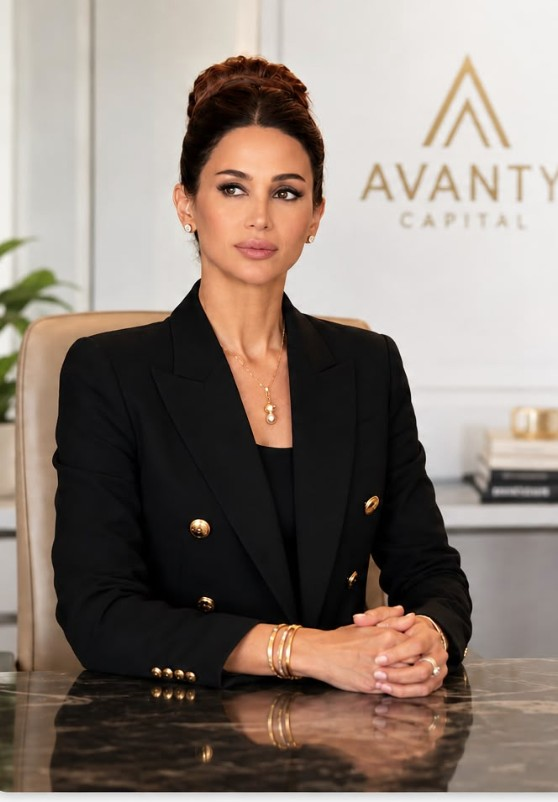
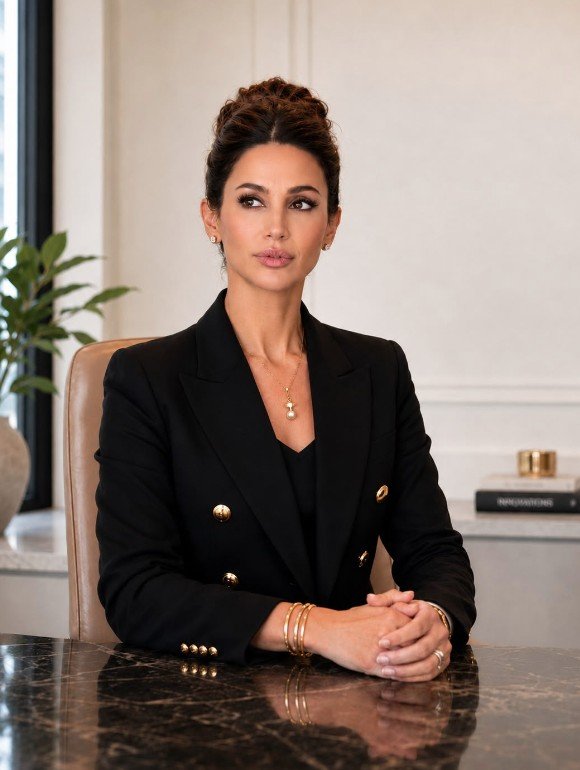
Add new edits addedgfff

diff --git a/public/assets/frontend/js/aboutus.js b/public/assets/frontend/js/aboutus.js
@@ -74,30 +74,30 @@ document.addEventListener("DOMContentLoaded", () => {
         "tanaz": {
             name: "Tanaz Choudhury",
             title: "Founder / Principal",
-            intro: "Tanaz Choudhury is Founder / Principal of AVANTY Capital. A UCL graduate in International Politics and Journalism, she began her career at HSBC as a governance and compliance analyst before moving into HSBC’s international governance and compliance team supporting the Cayman Islands business. She later established a reputable family office focused on real estate backed assets, which was exited to a Zurich-based private equity firm. At AVANTY Capital, Tanaz provides leadership across strategy, governance, institutional relationships and long-term private capital growth.",
+            intro: "Tanaz Choudhury is Founder and Principal of Avanty Capital, setting the firm's strategic direction and leading its governance, institutional relationships and long term growth. Her background spans international banking, governance and compliance, and family office leadership, shaping a firm built on discipline, alignment and long term value.",
             sections: [
-                { icon: "person", title: "EXECUTIVE OVERVIEW", content: "Tanaz Choudhury is Founder / Principal of AVANTY Capital, providing senior leadership across the firm’s corporate strategy, governance standards, investor positioning and international growth. Her background combines institutional banking discipline, governance and compliance experience, family office formation and real estate backed asset management. She brings a structured, credible and commercially balanced perspective to AVANTY Capital, helping ensure the firm is positioned as a relationship-led private capital platform with strong governance, professional presentation and long-term execution discipline." },
-                { icon: "briefcase", title: "PROFESSIONAL BIOGRAPHY", content: "Tanaz graduated from University College London (UCL) with a degree in International Politics and Journalism, providing a strong foundation in global affairs, governance, communication and international markets.<br><br>She began her career at HSBC within the Governance and Compliance function, where she developed experience in regulatory frameworks, risk management, internal controls and corporate governance. She later joined HSBC’s Offshore Governance and Compliance team, supporting the Cayman Islands business, one of the world’s leading international financial centres, where she gained valuable experience in cross-border banking, offshore financial services and international regulatory frameworks.<br><br>Following her banking career, Tanaz helped establish a private family office focused on real estate-backed and asset-backed investments, where she played an active role in governance, transaction execution, asset oversight and long-term capital strategy. The family office subsequently completed the successful sale of its real estate portfolio to a reputable Zurich-based private equity firm, providing her with direct experience in institutional due diligence, governance reviews, portfolio positioning and strategic transaction execution.<br><br>As Founder and Principal of AVANTY Capital, Tanaz provides strategic leadership across the firm’s governance, institutional relationships and long-term business development. She plays a key role in maintaining the firm’s professional standards across documentation, stakeholder engagement, strategic partnerships and external communications, ensuring AVANTY Capital operates with the professionalism, discretion and credibility expected by lenders, advisers, family offices, entrepreneurs and institutional counterparties." },
+                { icon: "person", title: "EXECUTIVE OVERVIEW", content: "Tanaz Choudhury is Founder and Principal of Avanty Capital, setting the firm's strategic direction and leading its governance, institutional relationships and long term growth. Her background spans international banking, governance and compliance, and family office leadership, shaping a firm built on discipline, alignment and long term value." },
+                { icon: "briefcase", title: "PROFESSIONAL BIOGRAPHY", content: "Tanaz read International Politics and Journalism at University College London, an academic grounding that shaped her enduring focus on global affairs, governance and international markets.<br><br>Tanaz's command of governance and compliance is grounded in her time at HSBC, where she progressed from the bank's Governance and Compliance function into a senior international role overseeing regulatory compliance, internal controls and risk across cross border banking, international regulatory frameworks and corporate governance.<br><br>Tanaz was a key visionary behind a successful private family office focused on real estate backed and asset backed investment, which she co founded and where she led governance, transaction execution, asset oversight and long term capital strategy. She directed the successful sale of the family office's real estate portfolio to a Zurich based private equity firm, an outcome that brought firsthand exposure to institutional due diligence, governance review and strategic transaction execution.<br><br>As Founder and Principal of Avanty Capital, Tanaz leads the firm's strategic direction, long term growth and international relationships, identifying opportunities across global markets and building institutional partnerships across banking, fintech and real estate.<br><br>She applies the principles of ethical finance and Sharia compliant investment throughout, working with entrepreneurs, family offices, lenders and institutional investors through disciplined governance and cross border execution." },
                 { icon: "chart", title: "CORE AREAS OF RESPONSIBILITY", content: "<ul><li>Founder / Principal leadership and strategic direction</li><li>Corporate governance, compliance culture and institutional standards</li><li>International growth, strategic partnerships and senior stakeholder relationships</li><li>Family office strategy, real estate backed asset oversight and private capital positioning</li><li>Brand credibility, reputation management and relationship-led business development</li><li>Supporting transaction presentation, documentation discipline and cross-border execution standards</li></ul>" }
             ]
         },
         "jenny": {
             name: "Jenny Won Lee",
             title: "Head of Capital Markets, Funding Strategy and Transaction Structuring",
-            intro: "Jenny Won Lee is Head of Capital Markets at AVANTY Capital, supporting the firm’s commercial pricing, capital market strategy and transaction structuring. She works closely with the leadership team on debt facilities, capital structures, lender engagement and market analysis, helping position transactions for successful execution across private capital and cross-border opportunities.",
+            intro: "Jenny Won Lee leads Avanty Capital's capital markets function, responsible for commercial pricing, capital strategy, capital provider engagement and transaction structuring. She shapes funding solutions that are commercially realistic, aligned to cost of capital and executable across complex real estate and private capital transactions.",
             sections: [
-                { icon: "person", title: "EXECUTIVE OVERVIEW", content: "Jenny Won Lee leads AVANTY Capital’s capital markets function, with responsibility for commercial pricing, capital strategy, lender engagement and transaction structuring. She supports the firm’s private capital activities by helping shape funding solutions that are commercially realistic, lender-aligned and capable of being executed across complex real estate and private capital transactions." },
-                { icon: "briefcase", title: "PROFESSIONAL BIOGRAPHY", content: "Jenny’s background is positioned around financial analysis, market assessment and private capital execution. She brings a strong analytical foundation to the firm, supported by a degree in Mathematics from the University of Seoul and experience across investment analysis, private equity markets and transaction support.<br><br>Before joining AVANTY Capital, Jenny developed experience in Hong Kong’s financial markets, including exposure to private equity, investment analysis and transaction execution. This background gave her a practical understanding of how capital providers assess risk, pricing, security, exit strategy and sponsor credibility.<br><br>At AVANTY Capital, Jenny works closely with the leadership team to review commercial pricing, capital structures, debt facilities, market comparables and funding strategy. She assists in shaping the financial narrative of each transaction so that counterparties can understand the opportunity, the security position, the repayment strategy and the commercial rationale.<br><br>Her role also includes supporting negotiations with lenders, advisers and institutional counterparties. Jenny helps translate deal information into a structured capital markets presentation, ensuring that valuation assumptions, debt sizing, projected returns and execution milestones are presented in a clear, credible and commercially disciplined manner." },
+                { icon: "person", title: "EXECUTIVE OVERVIEW", content: "Jenny Won Lee leads Avanty Capital's capital markets function, responsible for commercial pricing, capital strategy, capital provider engagement and transaction structuring. She shapes funding solutions that are commercially realistic, aligned to cost of capital and executable across complex real estate and private capital transactions." },
+                { icon: "briefcase", title: "PROFESSIONAL BIOGRAPHY", content: "Jenny graduated with distinction in Mathematics from the University of Seoul, giving her a strong analytical foundation across investment analysis, private equity markets and transaction execution.<br><br>Before joining Avanty Capital, Jenny built her career in Hong Kong's financial markets, working across private equity, investment analysis and transaction execution. This gave her a practical understanding of how capital providers assess risk, pricing, security, exit strategy and sponsor credibility.<br><br>At Avanty Capital, Jenny reviews commercial pricing, capital structures, debt facilities, market comparables and funding strategy alongside the leadership team, shaping the financial narrative of each transaction so counterparties understand the opportunity, the security position, the repayment strategy and the commercial rationale.<br><br>She leads negotiations with capital providers, advisers and institutional counterparties, translating deal information into structured capital markets presentations with clear, credible and commercially disciplined valuation assumptions, debt sizing, projected returns and execution milestones." },
                 { icon: "bank", title: "CORE AREAS OF RESPONSIBILITY", content: "<ul><li>Capital markets strategy and lender engagement</li><li>Commercial pricing, debt sizing and funding analysis</li><li>Transaction structuring and capital stack review</li><li>Market analysis, comparables and execution planning</li><li>Supporting cross-border capital solutions and lender-facing materials</li></ul>" }
             ]
         },
         "kai": {
             name: "Kai Leuw",
             title: "Head of Operations, Governance and Transaction Delivery",
-            intro: "Kai Leuw is Head of Operations at AVANTY Capital, overseeing the firm’s internal management, operational framework and transaction delivery processes. She coordinates key workstreams across advisers, lenders, borrowers and management, ensuring that complex transactions are progressed with discipline, structure and professional oversight.",
+            intro: "Kai Leuw is Head of Operations at Avanty Capital, directing internal management, operational governance and transaction delivery across the firm. She holds the firm's commercial processes, documentation and stakeholder communication to a single standard of order, consistency and long term discipline, ensuring the firm's transaction activity moves with the rigour institutional counterparties expect. As a key member of the firm's daily operations, Kai is the constant thread running through every transaction from origination to completion.",
             sections: [
-                { icon: "person", title: "EXECUTIVE OVERVIEW", content: "Kai Leuw is Head of Operations at AVANTY Capital, responsible for internal management, operational governance and the delivery framework that supports the firm’s transaction activity. Her function is to ensure that the firm’s commercial processes, documentation flows, professional advisers and stakeholder communications remain organised, consistent and aligned with the firm’s long-term objectives." },
-                { icon: "briefcase", title: "PROFESSIONAL BIOGRAPHY", content: "Kai’s background combines operational management, financial analysis and commercial coordination. She is positioned as a disciplined operator with experience supporting complex processes across financial services, corporate advisory and market-facing business environments.<br><br>Kai began her career in Singapore, developing a foundation in analytical thinking, financial reporting, process management and client engagement. Her early career gave her exposure to structured corporate environments where accuracy, communication and process discipline were central to delivery.<br><br>She subsequently developed experience across commercial operations and strategic analysis, including work connected to regional markets, portfolio oversight and transaction coordination. This experience strengthened her ability to manage competing priorities, assess commercial information and support senior decision-makers through clear operational execution.<br><br>At AVANTY Capital, Kai oversees the internal framework behind the firm’s transaction activity. This includes coordinating workstreams between management, borrowers, lenders, valuers, lawyers, monitoring surveyors and other professional advisers. She helps ensure that each transaction moves through the required stages in an orderly manner, with clear ownership, timely follow-up and accurate communication.<br><br>Kai’s role is particularly important in complex cross-border transactions where multiple parties need to be coordinated and where delays can occur if information is not managed properly. Her operational oversight supports the firm’s ability to move quickly while maintaining professionalism, governance and control." },
+                { icon: "person", title: "EXECUTIVE OVERVIEW", content: "Kai Leuw is Head of Operations at Avanty Capital, directing internal management, operational governance and transaction delivery across the firm. She holds the firm's commercial processes, documentation and stakeholder communication to a single standard of order, consistency and long term discipline, ensuring the firm's transaction activity moves with the rigour institutional counterparties expect. As a key member of the firm's daily operations, Kai is the constant thread running through every transaction from origination to completion." },
+                { icon: "briefcase", title: "PROFESSIONAL BIOGRAPHY", content: "Kai holds a Bachelor of Arts from the National University of Singapore, an early foundation that carried into her career in financial reporting, process management and client engagement within structured corporate environments demanding accuracy and discipline.<br><br>She went on to build experience across commercial operations and strategic analysis, spanning regional markets, portfolio oversight and transaction coordination. That grounding sharpened her instinct for managing competing priorities under pressure, reading commercial information quickly, and supporting senior decision makers with clear, timely operational judgement.<br><br>At Avanty Capital, Kai runs the operational framework behind every transaction, coordinating management, borrowers, capital providers, valuers, lawyers and monitoring surveyors. Every stage carries clear ownership, timely follow up and accurate communication, and every workstream is tracked against the firm's own standard rather than left to individual advisers to self report.<br><br>Her command is most evident in complex cross border transactions, where multiple parties, jurisdictions and timelines converge and where a single missed handoff can cost weeks. Kai's governance and control keep execution fast without compromise, giving the firm's counterparties confidence that process discipline sits behind every stage of delivery." },
                 { icon: "edu", title: "CORE AREAS OF RESPONSIBILITY", content: "<ul><li>Operational management and transaction coordination</li><li>Internal governance, process control and workflow management</li><li>Coordination with advisers, lenders, borrowers and counterparties</li><li>Supporting execution timelines and documentation management</li><li>Maintaining operational standards across the firm’s private capital activities</li></ul>" }
             ]
         }